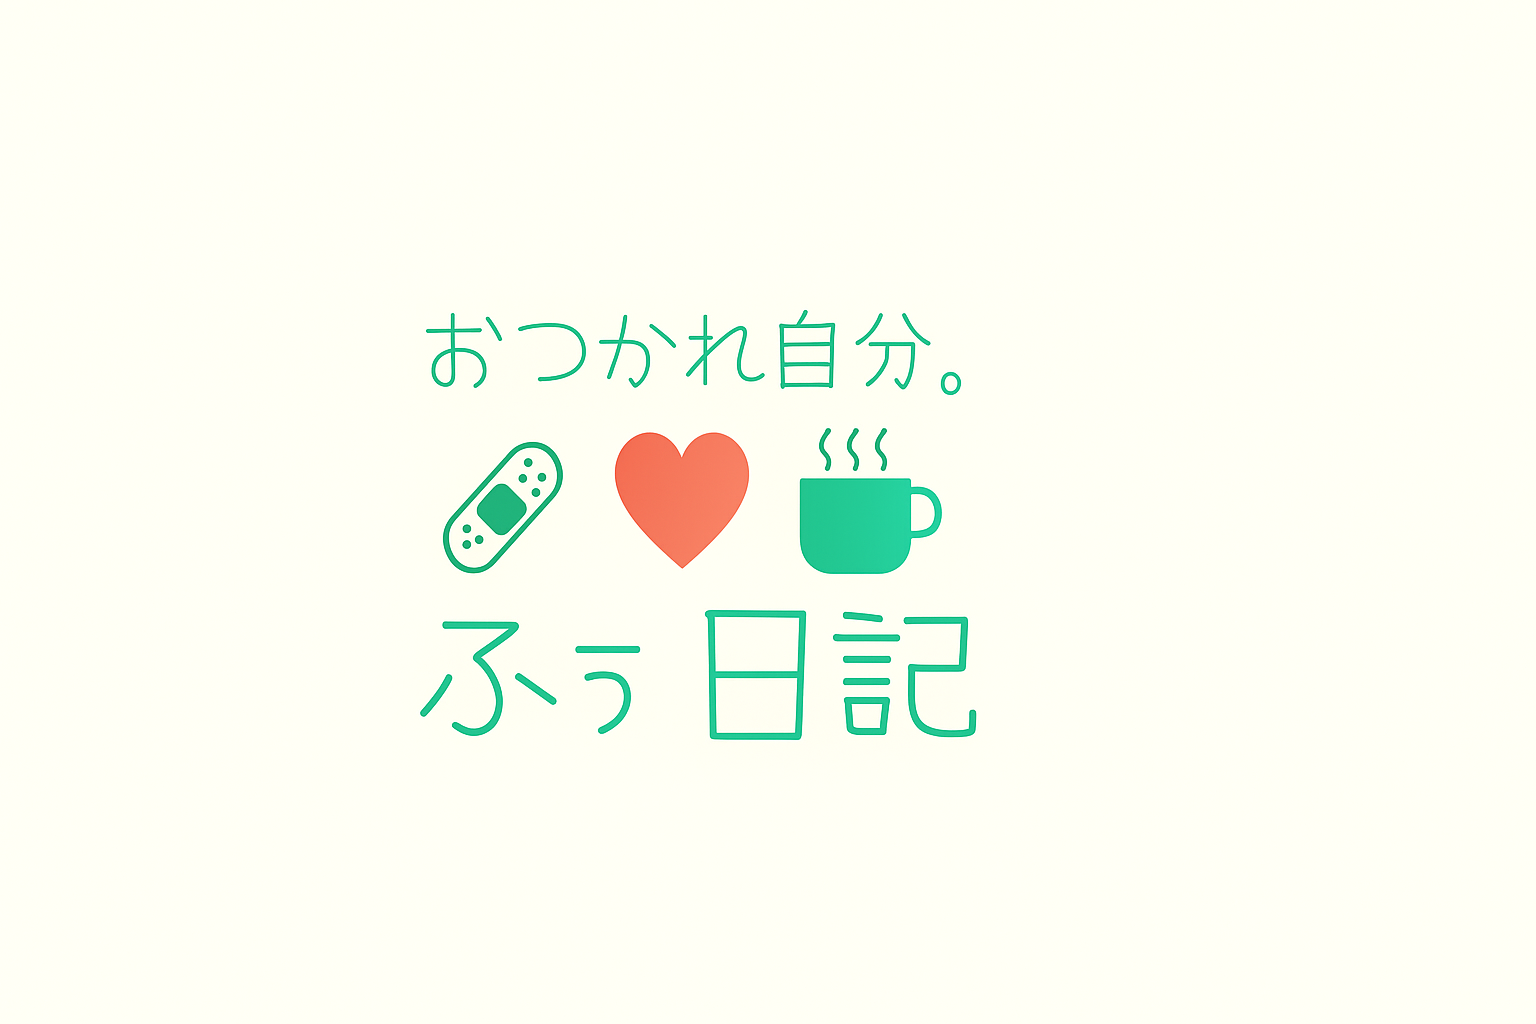
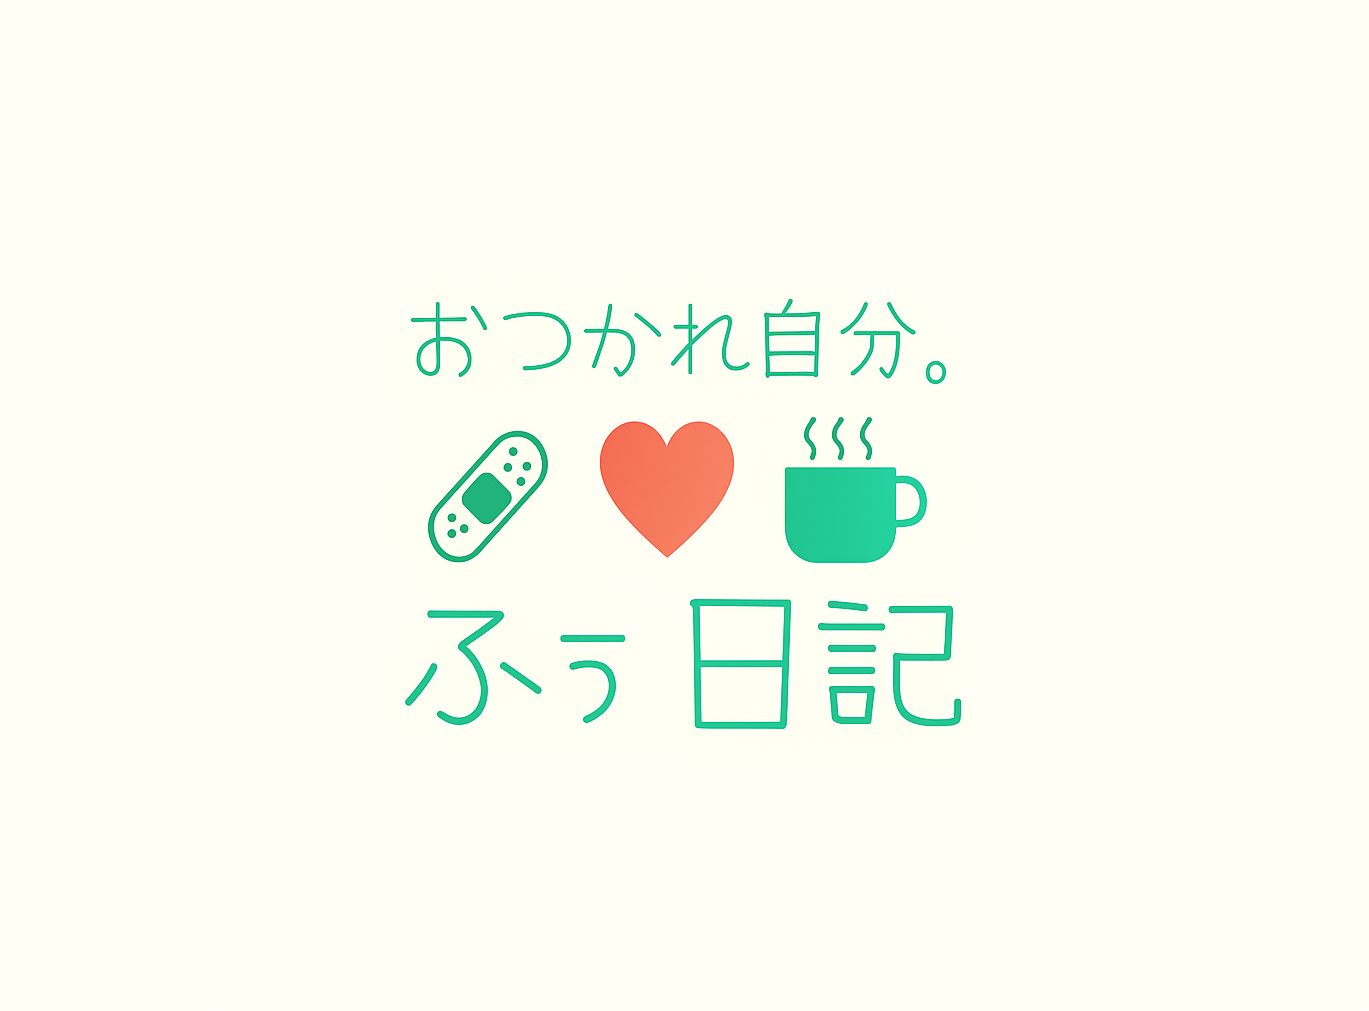
OGP画像追加

Changed region(s): [[0.2761, 0.3066, 0.7056, 0.7359]]

diff --git a/README.md b/README.md
@@ -1,5 +1,4 @@
-# おつかれ自分。ふぅ日記
-!(images/huu.png)
+# ![おつかれ自分。ふぅ日記](images/huu.png)
 
 ## サービス概要
 日々の疲れを感じる人に、安心して感情を吐き出せるプライベート空間を提供し、自動いいね機能による肯定体験で自己肯定感を高めるクローズド日記アプリです。
